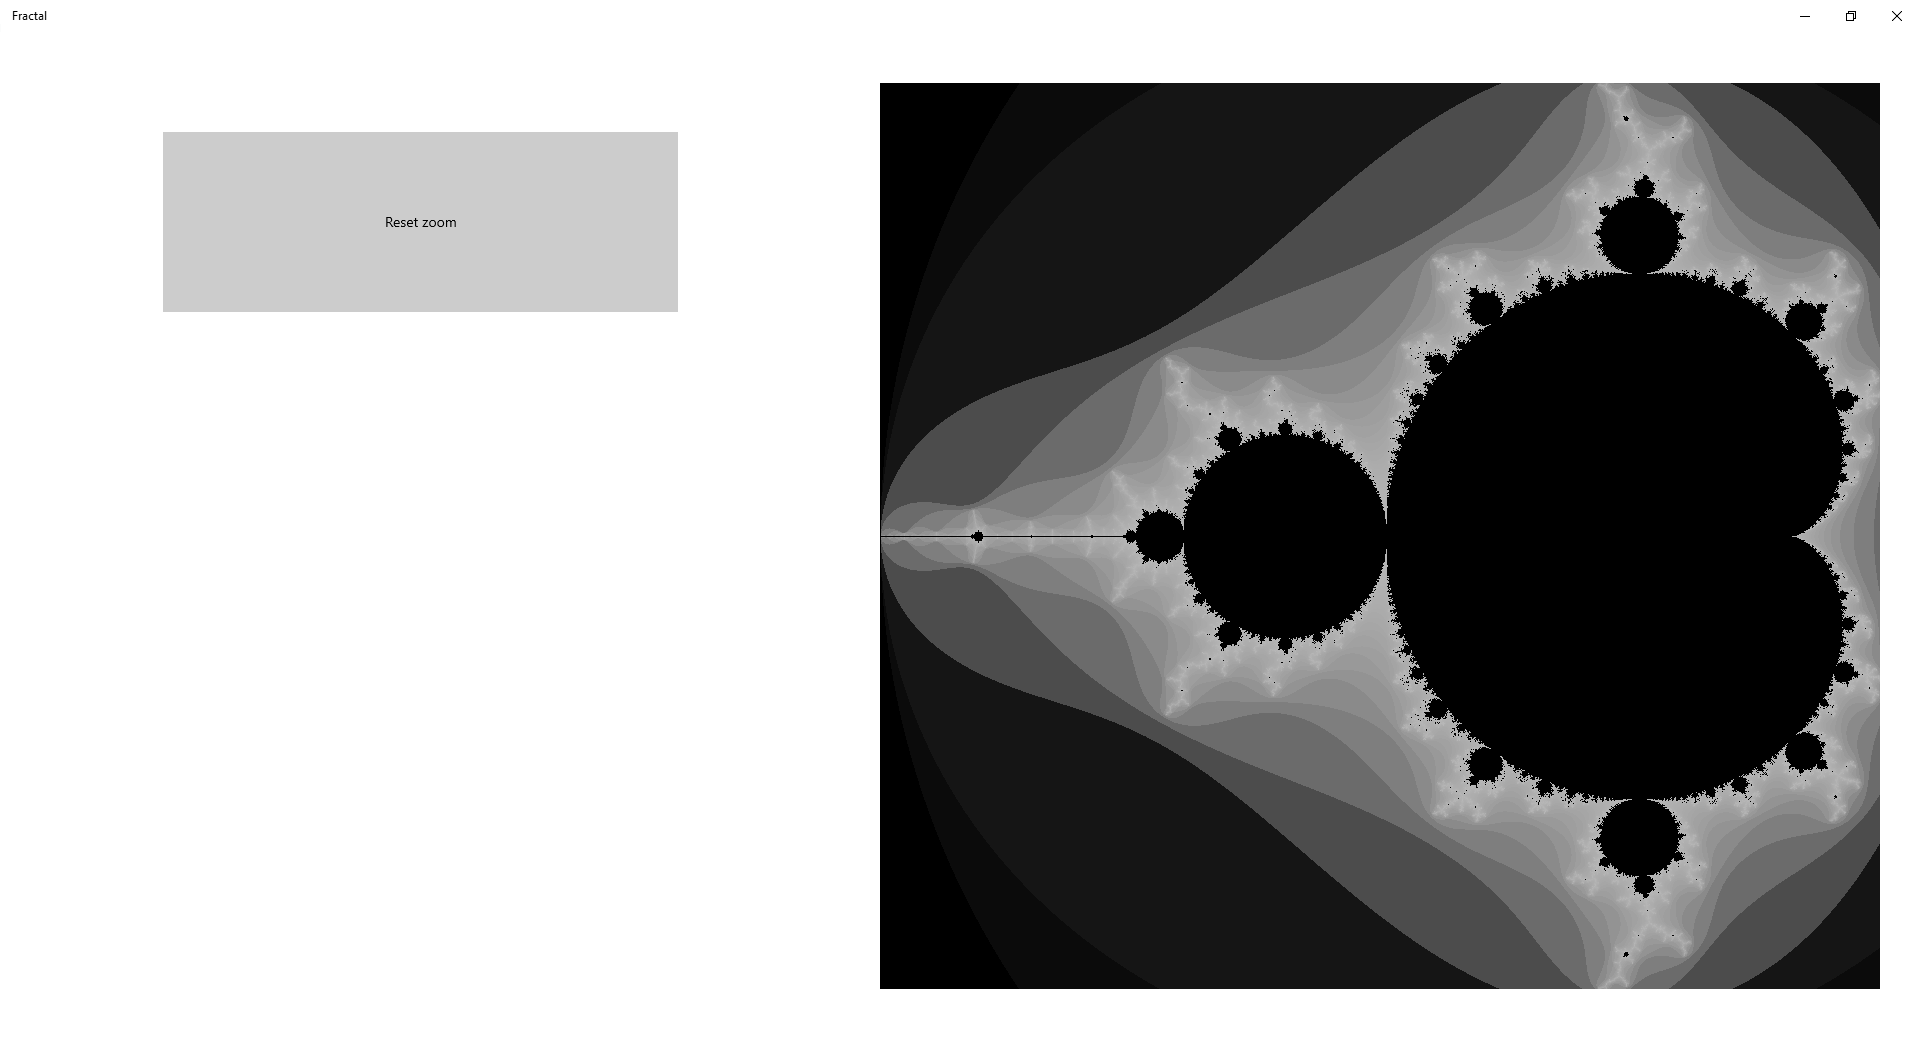
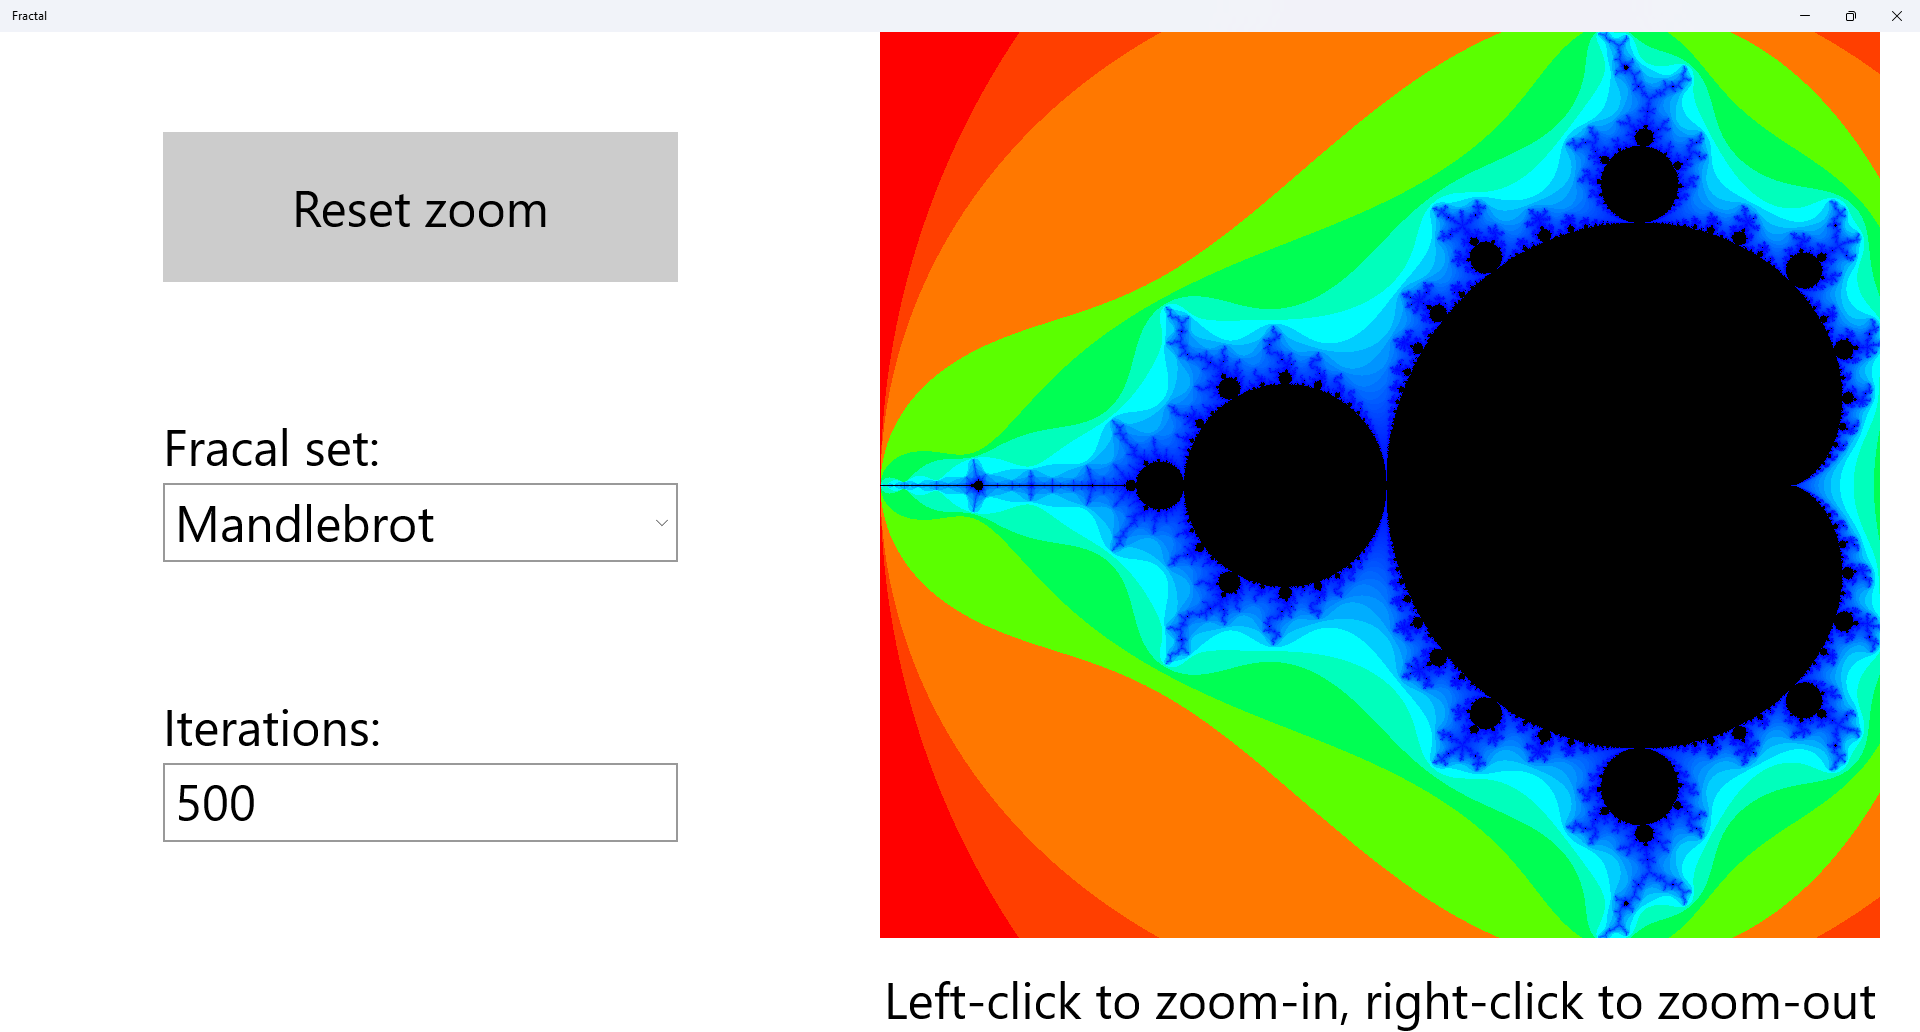
updated readme

diff --git a/Fractal/MainPage.xaml b/Fractal/MainPage.xaml
@@ -17,6 +17,6 @@
         <Button Content="Reset zoom" Height="150" Margin="0,100,0,0" VerticalAlignment="Top" HorizontalAlignment="Center" Width="515" FontSize="50" Click="Reset_Zoom_Button"/>
         <ComboBox x:Name="fractalBox"  Height="150" Margin="0,380,0,0" VerticalAlignment="Top" HorizontalAlignment="Center" Width="515" FontSize="50" Header="Fracal set:" Loaded="fractalBox_Loaded" SelectionChanged="fractalBox_SelectionChanged"/>
         <TextBox x:Name="iterationsBox" Height="150" Margin="0,660,0,0" VerticalAlignment="Top" HorizontalAlignment="Center" Width="515" FontSize="50" Text="500" Header="Iterations:" BeforeTextChanging="iterationsBox_BeforeTextChanging" LostFocus="iterationsBox_LostFocus" TextChanged="iterationsBox_TextChanged"/>
-        <TextBlock Text="Left-click to zoom-in, right-click to zoom-out" FontSize="50" Grid.Column="1" VerticalAlignment="Bottom" />
+        <TextBlock Text="Left-click to zoom-in, right-click to zoom-out" FontSize="50" Grid.Column="1" VerticalAlignment="Bottom" HorizontalAlignment="Center" />
     </Grid>
 </Page>

diff --git a/Fractal/MainPage.xaml.cs b/Fractal/MainPage.xaml.cs
@@ -61,7 +61,7 @@ namespace Fractal
             switch (fractalBox.SelectedItem)
             {
                 default:
-                    return Mandlebrot();
+                    return GenerateFractal();
             }
         }
 
@@ -83,10 +83,10 @@ namespace Fractal
             return iteration;
         }
 
-        private IEnumerable<byte[]> Mandlebrot()
+        private IEnumerable<byte[]> GenerateFractal()
         {
             int[] iterationFrequencies = new int[maxIteration + 1];
-            double y0, x0, a, b, a2, b2;
+            double y0, x0;
             int iteration;
             byte[] pixel = { 255, 255, 255, 255 };
             int[,] iterations = new int[width, height];

diff --git a/FractalAlgorithms/Color.cs b/FractalAlgorithms/Color.cs
@@ -2,8 +2,7 @@
 {
     public class Color
     {
-        //public static int[,] colors = { { 0, 0, 255 }, { 0, 128, 255 }, { 0, 255, 255 }, { 0, 255, 0 }, { 255, 0, 0 }, { 128, 0, 128 }, { 255, 128, 255 }, { 0, 0, 0 } };
-        public static int[,] colors = { { 0, 0, 255 }, { 0, 128, 255 }, { 0, 255, 255 }, { 0, 255, 128 }, { 0, 255, 0 }, { 128, 255, 0 }, { 255, 255, 0 }, { 255, 128, 0 }, { 255, 0, 0 } };
+        public static int[,] colors = { { 0, 0, 255 }, { 0, 128, 255 }, { 0, 255, 255 }, { 0, 255, 128 }, { 0, 255, 0 }, { 128, 255, 0 }, { 255, 255, 0 }, { 255, 128, 0 }, { 255, 0, 0 }, { 128, 0, 0} };
 
         public static byte[] CalculateColor(int hue, int total)
         {

diff --git a/Fractal/BurningShip.cs b/Fractal/BurningShip.cs
@@ -2,13 +2,13 @@
 {
     class BurningShip : IFractal
     {
-        public double xRange => 3.5;
+        public double xRange => 3.2;
 
-        public double yRange => 2;
+        public double yRange => 2.2;
 
-        public double xMin => -2.5;
+        public double xMin => -2;
 
-        public double yMin => -1;
+        public double yMin => -1.75;
 
         public int calculatePixel(double x0, double y0, int maxIteration)
         {

diff --git a/README.md b/README.md
@@ -3,6 +3,5 @@ Fractal
 
 Draws the Mandlebrot Set
 ![Fractal](images/fractal.png)
-Left click to zoom in, right click to zoom out
 
 Uses a histogram coloring algorithm to equally distribute colors in the drawn area
